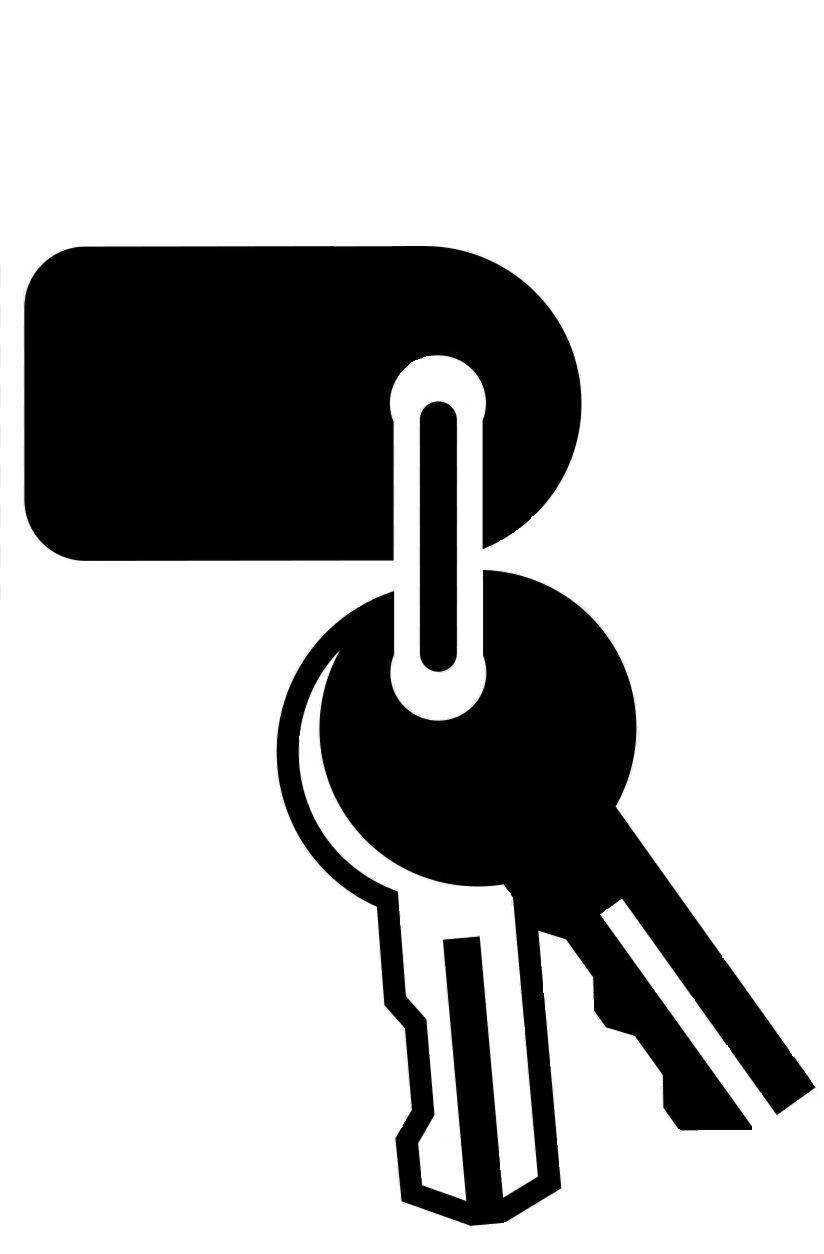
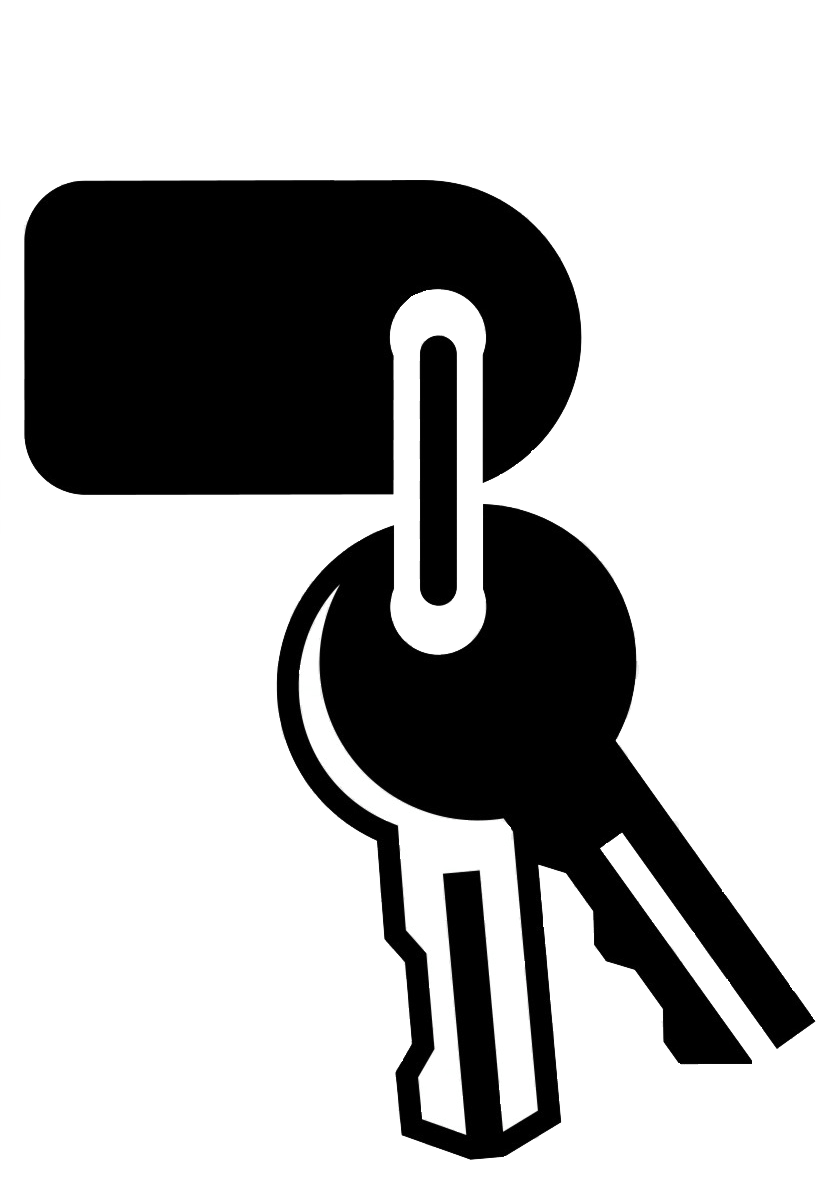
-shoe reminder for Due notes -settings for 3~7 days reminder

diff --git a/ExaminerB/Service/BeService.cs b/ExaminerB/Service/BeService.cs
@@ -159,6 +159,30 @@ namespace ExaminerB.Services2Backend
                 }
             return users;
             }
+        public async Task<List<User>> Read_NewTeachersAsync ()
+            {
+            var users = new List<User> ();
+            string? connString = _config.GetConnectionString ("cnni");
+            using SqlConnection cnn = new SqlConnection (connString);
+            using SqlCommand cmd = new ("dbo.sp_ReadNewTeachers", cnn); // -- ORDER BY usrNickName
+            cmd.CommandType = CommandType.StoredProcedure;
+            await cnn.OpenAsync ();
+            using SqlDataReader reader = await cmd.ExecuteReaderAsync ();
+            while (await reader.ReadAsync ())
+                {
+                users.Add (new User
+                    {
+                    UserId = reader.GetInt32 (0),
+                    DepartmentId = reader.GetInt32 (1),
+                    UserName = reader.GetString (2),
+                    UserPass = reader.GetString (3),
+                    UserNickname = reader.GetString (4),
+                    UserEmail = reader.GetString (5),
+                    UserTags = Convert.ToInt32 (reader.GetInt32 (6))
+                    });
+                }
+            return users;
+            }
         public async Task<bool> Update_TeacherAsync (User user)
             {
             string sql = "dbo.sp_UpdateTeacher";
@@ -169,6 +193,7 @@ namespace ExaminerB.Services2Backend
                 await cnn.OpenAsync ();
                 SqlCommand cmd = new SqlCommand (sql, cnn);
                 cmd.CommandType = CommandType.StoredProcedure;
+                cmd.Parameters.AddWithValue ("@departmentid", user.DepartmentId);
                 cmd.Parameters.AddWithValue ("@usrname", user.UserName);
                 cmd.Parameters.AddWithValue ("@usrpass", user.UserPass);
                 cmd.Parameters.AddWithValue ("@usrnickname", user.UserNickname);
@@ -3876,6 +3901,37 @@ namespace ExaminerB.Services2Backend
                 }
             await cnn.CloseAsync ();
             return lstNotes;
+            }
+        public async Task<List<Note>> Read_DueNotesAsync (int userId, int nDays)
+            {
+            //ReferenceTypes 1:quicknote(s) 2:SectNote(s) 11:quicknote(t) 12:SectNote(t) 13:StudentNote(t) 14:GroupNote(t) 15:CourseNote(t) 16:ExamNote(t) 17:StudentExamNote(t)
+            string sql = "dbo.sp_ReadNotesDue";
+            List<Note> lstDueNotes = new List<Note> ();
+            string? connString = _config.GetConnectionString ("cnni");
+            using SqlConnection cnn = new SqlConnection (connString);
+            await cnn.OpenAsync ();
+            SqlCommand cmd = new SqlCommand (sql, cnn);
+            cmd.CommandType = CommandType.StoredProcedure;
+            cmd.Parameters.AddWithValue ("@creatorid", userId);
+            cmd.Parameters.AddWithValue ("@days", nDays);
+            SqlDataReader reader = await cmd.ExecuteReaderAsync ();
+            lstDueNotes.Clear ();
+            while (await reader.ReadAsync ())
+                {
+                Note note = new Note ();
+                note.NoteId = reader.GetInt32 (0);
+                note.ReferenceId = reader.GetInt32 (1);
+                note.ReferenceType = reader.GetInt32 (2);
+                note.NoteDateTime = reader.GetDateTimeOffset (3);
+                note.NoteDueDateTime = reader.GetDateTimeOffset (4);
+                note.NoteText = reader.GetString (5);
+                note.CreatorId = reader.GetInt32 (6);
+                note.NoteTags = reader.GetInt32 (7);
+                //note.ReferenceName = reader.GetString (8);
+                lstDueNotes.Add (note);
+                }
+            await cnn.CloseAsync ();
+            return lstDueNotes;
             }
         public async Task<List<Note>> Read_NotesBySearchKeyAsync (string searchKey, int parentId, int mode)
             {

diff --git a/ExaminerB/Service/FeService.cs b/ExaminerB/Service/FeService.cs
@@ -64,6 +64,19 @@ namespace ExaminerB.Service
                 return new List<User> ();
                 }
             }
+        public async Task<List<User>> Read_NewTeachers ()
+            {
+            var response = await _http.PostAsync ("api/Read_NewTeachers", null);
+            if (response.IsSuccessStatusCode)
+                {
+                List<User> lstNewTeachers = await response.Content.ReadFromJsonAsync<List<User>> ();
+                return lstNewTeachers;
+                }
+            else
+                {
+                return new List<User> ();
+                }
+            }
         public async Task<bool> Update_User (User user)
             {
             if (user.UserRole.ToLower () == "student")
@@ -1411,6 +1424,19 @@ namespace ExaminerB.Service
                 {
                 List<Note>? lstNotes = await response.Content.ReadFromJsonAsync<List<Note>> ();
                 return lstNotes ?? new List<Note> ();
+                }
+            else
+                {
+                return new List<Note> ();
+                }
+            }
+        public async Task<List<Note>> Read_DueNotes (int userId, int nDays)
+            {
+            var response = await _http.PostAsJsonAsync ($"api/Read_DueNotes?nDays={nDays}", userId);
+            if (response.IsSuccessStatusCode)
+                {
+                List<Note>? lstDueNotes = await response.Content.ReadFromJsonAsync<List<Note>> ();
+                return lstDueNotes ?? new List<Note> ();
                 }
             else
                 {

diff --git a/ExaminerB/Service/BeController.cs b/ExaminerB/Service/BeController.cs
@@ -55,6 +55,12 @@ namespace ExaminerB.Backend
             var result = await _BeService.Read_TeachersAsync (departmentId);
             return Ok (result);
             }
+        [HttpPost ("Read_NewTeachers")]
+        public async Task<ActionResult<List<User>>> Read_NewTeachers ()
+            {
+            var result = await _BeService.Read_NewTeachersAsync ();
+            return Ok (result);
+            }
         [HttpPost ("Update_Teacher")]
         public async Task<ActionResult<bool>> Update_Teacher ([FromBody] User user)
             {
@@ -966,6 +972,12 @@ namespace ExaminerB.Backend
         public async Task<ActionResult<List<Note>>> Read_Notes ([FromBody] int referenceId, [FromQuery] int referenceType, [FromQuery] int teacherid)
             {
             var result = await _BeService.Read_NotesAsync (referenceId, referenceType, teacherid);
+            return Ok (result);
+            }
+        [HttpPost ("Read_DueNotes")]
+        public async Task<ActionResult<List<Note>>> Read_DueNotes ([FromBody] int userid, [FromQuery] int nDays)
+            {
+            var result = await _BeService.Read_DueNotesAsync (userid, nDays);
             return Ok (result);
             }
         [HttpPost ("Read_NotesBySearchKey")]

diff --git a/ExaminerB/Service/BeIService.cs b/ExaminerB/Service/BeIService.cs
@@ -14,6 +14,7 @@ namespace ExaminerB.Services2Backend
         #region U:usrs
         Task<bool> Create_TeacherAsync (User teacher);
         Task<List<User>> Read_TeachersAsync (int departmentId);
+        Task<List<User>> Read_NewTeachersAsync ();
         Task<bool> Update_TeacherAsync (User user);
         Task<bool> Delete_TeacherAsync (int userId);
         #endregion
@@ -207,6 +208,7 @@ namespace ExaminerB.Services2Backend
         #region N:Notes
         Task<int> Create_NoteAsync (Note note);
         Task<List<Note>> Read_NotesAsync (int referenceId, int referenceType, int teacherId);
+        Task<List<Note>> Read_DueNotesAsync (int userId, int nDays);
         Task<List<Note>> Read_NotesBySearchKeyAsync (string searchKey, int referenceId, int mode);
         Task<Note> Read_NoteAsync (int referenceId);
         Task<bool> Update_NoteAsync (Note note);